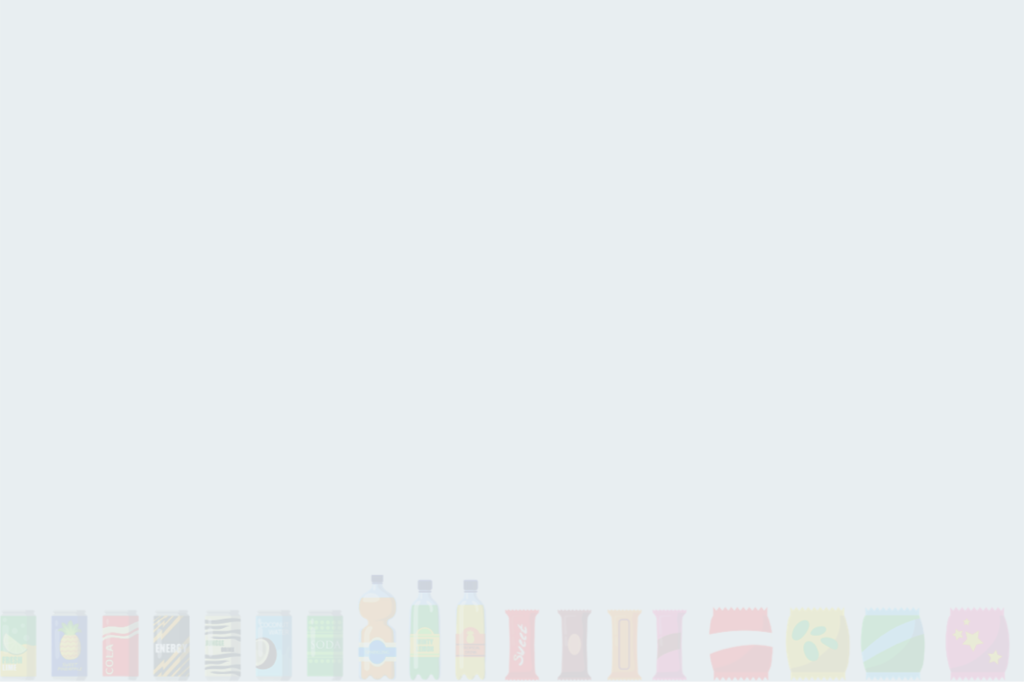
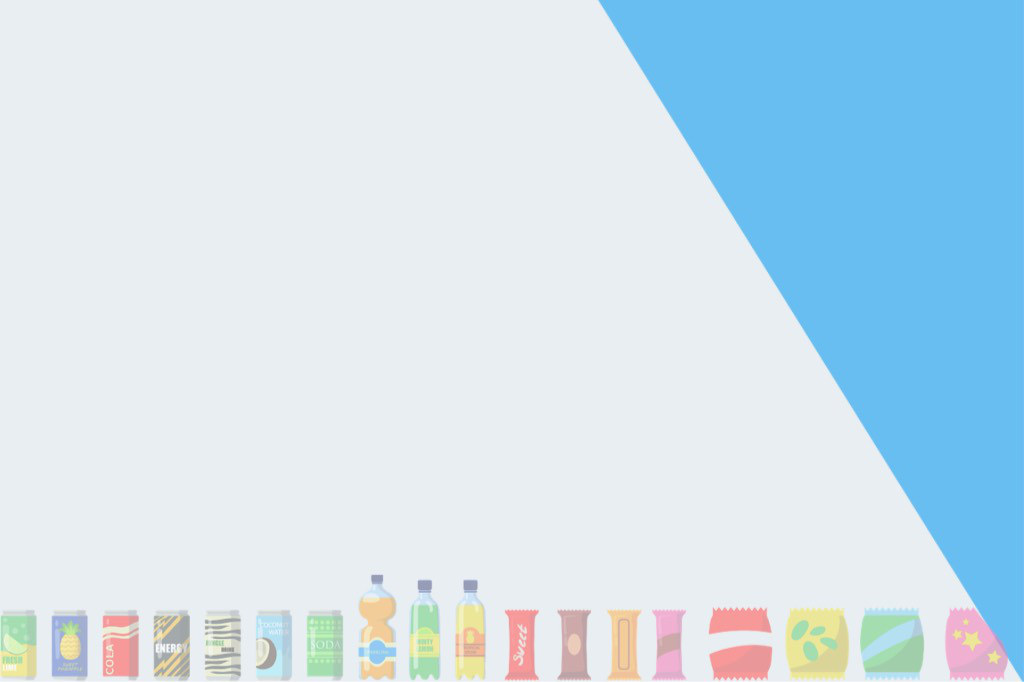
cleared unnessacery files and change to png the backgrounrd

Changed region(s): [[0.0, 0.0, 1.0, 1.0]]

diff --git a/EKrut/EKrut_Client/src/styles/css/generalStyleSheet.css b/EKrut/EKrut_Client/src/styles/css/generalStyleSheet.css
@@ -7,7 +7,7 @@
     -fx-background-repeat: no-repeat;  
     -fx-background-size: 500 500; 
     -fx-background-position: center center;
-    -fx-background-image: url("/styles/images/BG.jpg");
+    -fx-background-image: url("/styles/images/BG.png");
     -fx-background-size: cover;
 }
 
